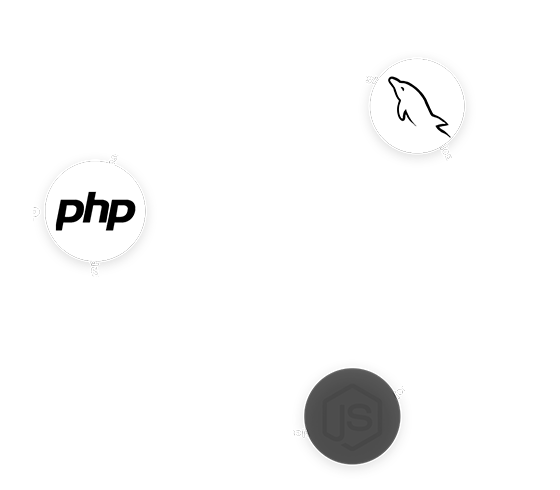
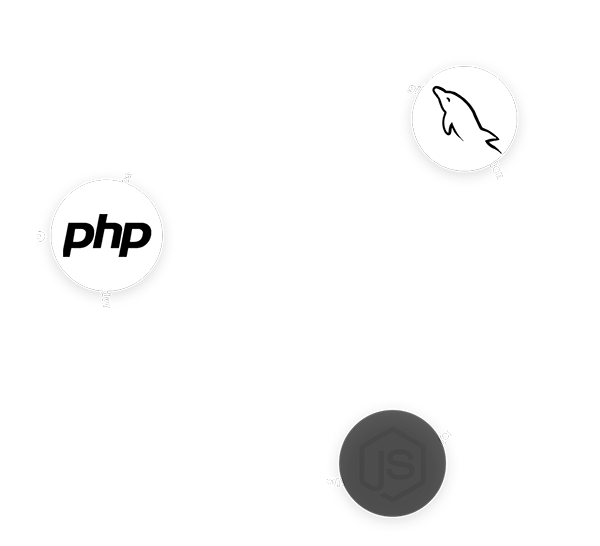
new images

diff --git a/css/style.css b/css/style.css
@@ -377,7 +377,7 @@ section#presentation {
 
 .container .box {
     position: relative;
-    height: 38vw;
+    height: 39vw;
     background-size: cover;
     display: flex;
     justify-content: center;
@@ -468,13 +468,13 @@ footer .copyright p{
 
 @media screen and (min-width: 400px) {
     .container .box {
-        height: 39vw;
+        height: 40vw;
     }
 }
 
 @media screen and (min-width: 550px) {
     .container .box {
-        height: 40.5vw;
+        height: 41vw;
     }
 }
 
@@ -493,11 +493,14 @@ footer .copyright p{
     section#presentation, section#competences, section#projets {
         padding: 64px 45px;
     }
+    .container .box {
+        height: 38vw;
+    }
 }
 
 @media screen and (min-width: 630px) {
     .container .box {
-        height: 39vw;
+        height: 40vw;
     }
 }
 
